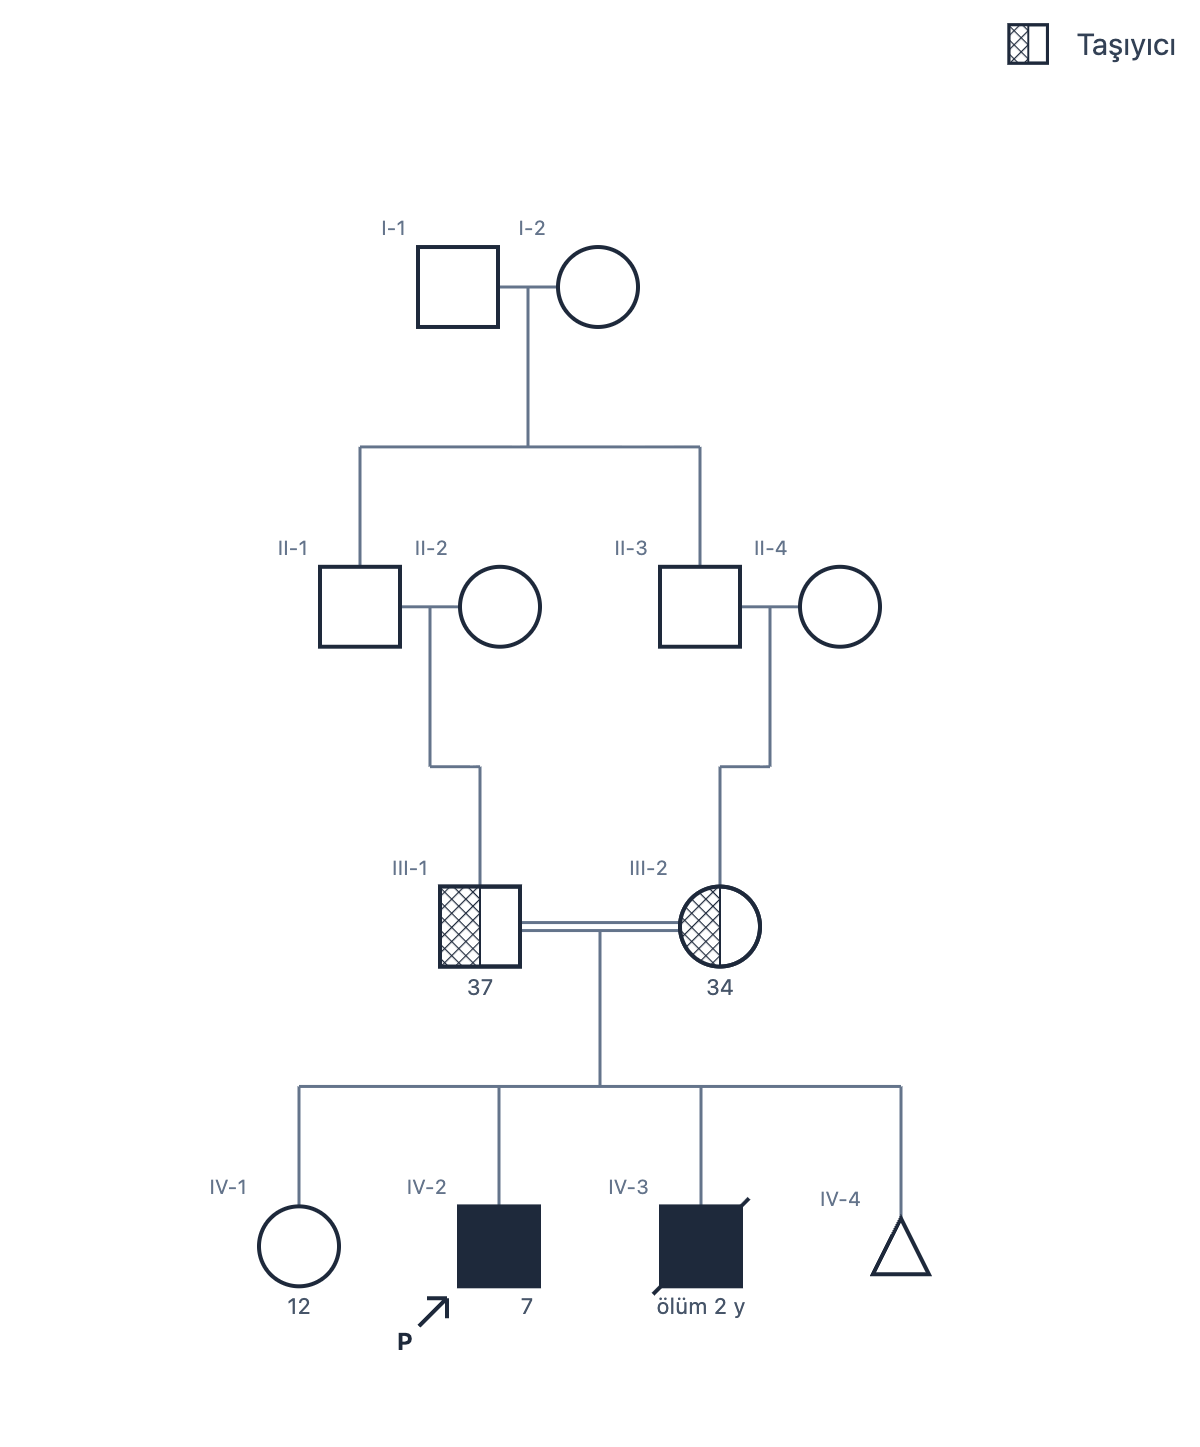
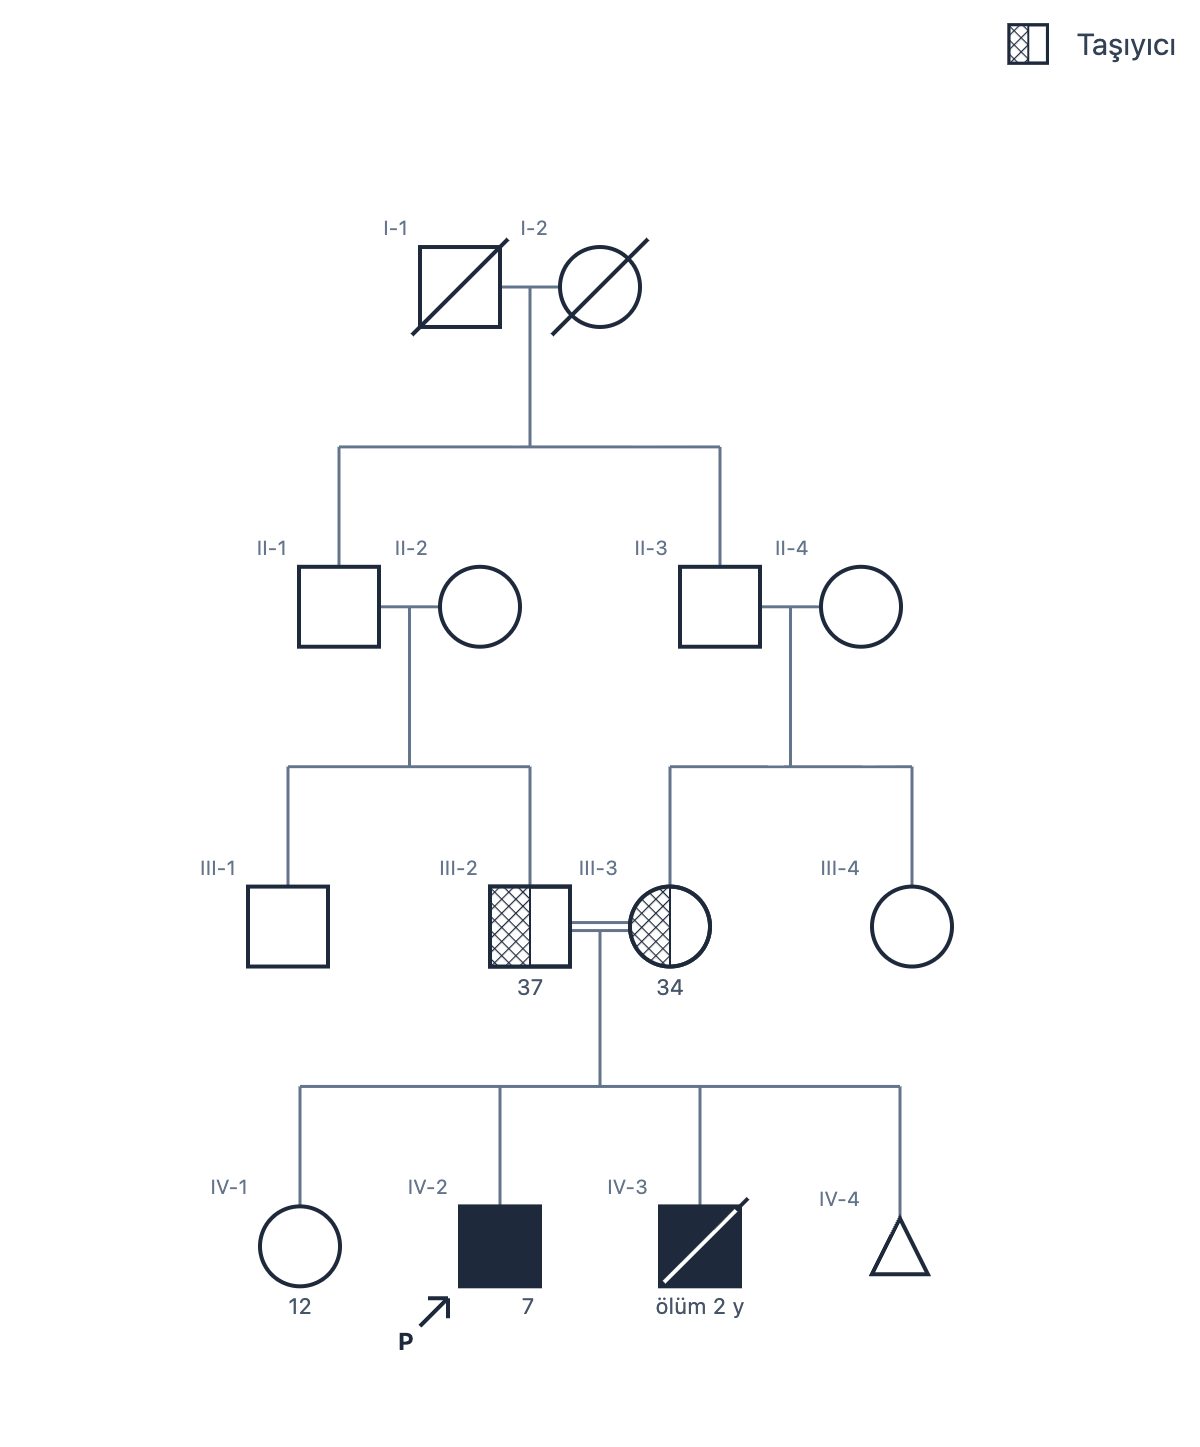
The deceased slash is seen on an affected symbol; it no longer touches the text below
On a wholly filled (affected) symbol the dark slash disappeared into the
fill and only its corners showed. It is now light inside the symbol and
dark outside it: one line, with the same meaning (notation mockup 09 B),
never two lines that could be read as "//". Open and partly filled symbols
are unchanged. Where text stands under the symbol ("ölüm 2 y"), the
slash's lower end stops at the corner instead of touching the text.

The README's sample drawing is redrawn: the parents each have a sibling,
so every line of descent drops straight; the great-grandparents are
deceased; the affected brother's slash shows.

Checked: two new screen tests fail on the old code; 1272 tests, lint,
generations, build; mark audit [] in the browser.

diff --git a/src/components/PedigreeCanvas.jsx b/src/components/PedigreeCanvas.jsx
@@ -35,7 +35,7 @@ import { annotationAge, pregnancyLine, lmpLine } from '../utils/annotations';
 import { BRACKET_OUT } from '../layout/pcl/routing';
 import { isSmallSymbol, pregnancyKind, PREGNANCY_LABEL, TESTED_TEXT, isGroup, groupText, subjectOf } from '../graph/model';
 import { packLines } from '../utils/textWrap';
-import { filled, onsetsOf, unsureOf, bornWeek, hasNoteNumber, geneticRows as geneticRowsOf, lineNoteText, LINE_NOTE_SIZE, TEXT, textScale, ARROW_DROP } from '../utils/symbolText';
+import { filled, onsetsOf, unsureOf, bornWeek, hasNoteNumber, geneticRows as geneticRowsOf, lineNoteText, LINE_NOTE_SIZE, TEXT, textScale, ARROW_DROP, textBox } from '../utils/symbolText';
 import { keyGrid } from '../utils/keyGrid';
 import { nameCase } from '../utils/nameCase';
 import { chainOf, offsetPolyline } from '../utils/doubleLine';
@@ -48,6 +48,8 @@ const NODE_FILL = '#ffffff';
 const NODE_SIZE = 40;
 const HALF = NODE_SIZE / 2;
 const LOSS_SIZE = 14; // smaller triangle for pregnancy loss
+const DECEASED_REACH = 4; // how far each end of the deceased slash reaches past the symbol's corner
+const DECEASED_REACH_OVER_TEXT = 0; // its lower end, where text stands under the symbol: at the corner, as at an arrow
 const GENETIC_ROW = 11; // one line of a genetic test result under a symbol
 
 const JUMP_R = 5;
@@ -912,12 +914,23 @@ const PedigreeCanvas = forwardRef(function PedigreeCanvas(
       if (d.deceased && !isSmall && !d.ongoingPregnancy) {
         // Diagonal slash for deceased: from the lower left to the upper right, as NSGC and the
         // textbooks draw it (clinician 2026-11-11: no difference from the international standard);
-        // it stops at the corner where a proband's or consultand's arrow points
-        const low = (d.proband || d.consultand) && !arrowRight.has(d.id) ? 0 : 4;
+        // it stops at the corner where a proband's or consultand's arrow points, and short of the text
+        // below the symbol (clinician 2026-11-14: it touched "ölüm 2 y")
+        const low = (d.proband || d.consultand) && !arrowRight.has(d.id) ? 0
+          : textBox(d).depth > sz ? DECEASED_REACH_OVER_TEXT : DECEASED_REACH;
         el.append('line').attr('class', 'deceased-slash')
           .attr('x1', -(sz + low)).attr('y1', sz + low)
-          .attr('x2', sz + 4).attr('y2', -(sz + 4))
+          .attr('x2', sz + DECEASED_REACH).attr('y2', -(sz + DECEASED_REACH))
           .attr('stroke', NODE_STROKE).attr('stroke-width', 2);
+        // On a wholly filled (affected) symbol the slash is light inside the symbol, dark outside: one
+        // line that is seen (clinician 2026-11-14; notation mockup 09 B — the meaning is the same).
+        // A partly filled symbol keeps the dark slash, which shows on its open part.
+        if (filling.mode === 'full') {
+          const inner = sz * (d.sex === 'female' ? Math.SQRT1_2 : d.sex === 'male' ? 1 : 0.5) - 2; // clear of the outline
+          el.append('line').attr('class', 'deceased-slash-inner')
+            .attr('x1', -inner).attr('y1', inner).attr('x2', inner).attr('y2', -inner)
+            .attr('stroke', '#ffffff').attr('stroke-width', 2);
+        }
       }
 
       // Proband / consultand arrow (lower-left); "P" only for the proband

diff --git a/src/__tests__/screen.test.js b/src/__tests__/screen.test.js
@@ -1559,6 +1559,39 @@ describe('notation per the literature (NSGC 2022 and its 2025 correction)', () =
     expect(Number(p.getAttribute('y1'))).toBeLessThan(Number(f.getAttribute('y1')));
   });
 
+  it('the deceased slash is seen on a filled (affected) symbol: light inside the symbol, dark outside — one line (clinician 2026-11-14)', async () => {
+    await run(() => {
+      S().updateIndividual('father', { deceased: true, affected: true });
+      S().updateIndividual('mother', { deceased: true, affected: true });
+      S().updateIndividual('pat_gf', { deceased: true });
+    });
+    for (const id of ['father', 'mother']) {
+      const node = drawn(id);
+      const inner = node.querySelector('.deceased-slash-inner'), slash = node.querySelector('.deceased-slash');
+      expect(inner, id).not.toBeNull();
+      expect(inner.getAttribute('stroke')).toBe('#ffffff');
+      // on top of the dark slash, as wide: a single line, never a "//"
+      expect(slash.compareDocumentPosition(inner) & Node.DOCUMENT_POSITION_FOLLOWING).toBeTruthy();
+      expect(inner.getAttribute('stroke-width')).toBe(slash.getAttribute('stroke-width'));
+      expect(Number(inner.getAttribute('x2')) > 0 && Number(inner.getAttribute('y2')) < 0).toBe(true);
+      // inside the symbol: within the square, within the circle — the ends outside stay dark
+      const x = Number(inner.getAttribute('x2')), y = Number(inner.getAttribute('y2'));
+      const half = id === 'father' ? Number(node.querySelector('rect').getAttribute('width')) / 2 : Number(node.querySelector('circle').getAttribute('r'));
+      expect(id === 'father' ? Math.max(Math.abs(x), Math.abs(y)) : Math.hypot(x, y)).toBeLessThan(half - 1);
+    }
+    // an open symbol keeps the dark slash all the way
+    expect(drawn('pat_gf').querySelector('.deceased-slash-inner')).toBeNull();
+  });
+
+  it('the deceased slash stops short of the text under the symbol ("ölüm 2 y"; clinician 2026-11-14)', async () => {
+    await run(() => {
+      S().updateIndividual('father', { deceased: true, ageAtDeath: '2' });
+      S().updateIndividual('mother', { deceased: true });
+    });
+    const lowEnd = (id) => Number(drawn(id).querySelector('.deceased-slash').getAttribute('y1'));
+    expect(lowEnd('father')).toBeLessThan(lowEnd('mother')); // the mother has no text below: the usual reach
+  });
+
   it('ectopic pregnancy: the triangle with a slash and "ECT" below, like a termination but named', async () => {
     await run(() => { S().addChildTo('proband', 'unknown', { ectopic: true }); S().addChildTo('proband', 'unknown', { termination: true }); });
     const ect = g().individuals.find(i => i.ectopic).id, top = g().individuals.find(i => i.termination).id;

diff --git a/docs/PEDITREE_CLINICAL_NOTATION_SPEC_V1.md b/docs/PEDITREE_CLINICAL_NOTATION_SPEC_V1.md
@@ -88,8 +88,8 @@ Her başlıkta: (1) standart kuralı, (2) mevcut davranış, (3) uygunluk, (4) e
    işinin bekletildiğini söylüyor); çoklu fenotip eksik.
 4. **Eksik/hatalı:** yarım dolgu, bazı kaynaklarda presemptomatik taşıyıcıya ayrılmış bir görünümdür; kaynaklar arasında
    çelişki var (repo notu yarım dolgu, NSGC 2008 bilgisi dikey çizgi) — doğrulanmadan seçilemez. Etkilenmiş ve vefat
-   etmiş bireyde koyu çizgi koyu dolgunun üstünde yalnız köşelerde görünüyor
-   (`reports/notation-audit/CB-05-II-3-affected-deceased.svg`).
+   etmiş bireyde koyu çizgi koyu dolgunun üstünde yalnız köşelerde görünüyordu
+   (`reports/notation-audit/CB-05-II-3-affected-deceased.svg`) — 2026-11-14'te düzeltildi (aşağıda karar kaydı).
 5. **Öneri:** 2022 yayını doğrulanınca taşıyıcı / presemptomatik / çoklu fenotip gösterimini birlikte belirleyin
    (taslak: `docs/notation/mockups/03-carrier-phenotypes.svg`); vefat çizgisinin dolgu üstünde görünürlüğü için
    `09-deceased-affected.svg`.
@@ -302,6 +302,7 @@ Onay sonrası her kural için:
 | 2026-10-24 | farklı kuşaklar arası eşlik | izin verilecek; herkes kendi kuşak satırında kalır, ilişki çizgisi üstteki kişiden alttakine **basamaklı** iner, çocuklar alttaki kuşağın bir altına çizilir (uygulandı 2026-10-24: bir kuşak farka kadar; dede–torun gibi doğrudan soy bağı engelli) | kullanıcı (klinisyen) |
 | 2026-11-11 | daha geniş kuşak farkıyla eşlik; daha az basamak | kuşak farkı sınırı kalktı (ör. büyük amca ile yeğenin kızı); öz kardeşler ve doğrudan soy bağı engelli kalır. Çizgi üstteki eşin yanından çıkar, aradaki her satırda boş tutulan yerden düz iner (basamak yok, mümkünse iki kırılma) | kullanıcı (klinisyen) |
 | 2026-11-11 | vefat çizgisinin yönü | uluslararası gösterimle aynı: sol alttan sağ üste ("/"), TOP / ECT çizgisiyle aynı yön; proband ya da danışan okunun bulunduğu köşede taşmaz; sembol rehberi çizimle aynı (uygulandı) | kullanıcı (klinisyen): "hangi taraf diyorsa ona göre" |
+| 2026-11-14 | vefat çizgisi dolu sembolde | tamamen dolu (etkilenmiş) sembolde çizgi sembolün içinde beyaz, dışında koyu: tek çizgi (taslak 09 B; anlam aynı, "//" gibi görünmez); kısmen dolu ya da boş sembolde koyu çizgi değişmez; altında yazı olan kişide alt uç köşede biter ("ölüm 2 y" yazısına değiyordu) (uygulandı) | kullanıcı (klinisyen): "vefat da göster … kullanıcı ne biçim gözüküyor dememeli" |
 | 2026-10-24 | K12 — ikizler / çoğul gebelik | kardeşlik çizgisinde tek noktadan ayrılan çizgiler; tek yumurta = çizgiler arasında çubuk, zigosite bilinmiyor = "?", dizigotik / trizigotik = işaret yok; üçüz ve daha fazlası (uygulandı, `graph/multiples.js`; referans: klinik pedigri sembol sayfası, Ayaz & Çitli) | kullanıcı (klinisyen) isteği |
 | | referans sayfasında farklı görülenler | ölü doğum: normal boy sembol + eğik çizgi + "SB hf" (bizde küçük sembol + X); devam eden gebelik: sembol içinde P (bizde yok); TOP / ektopik (bizde yok); taşıyıcı: ortada nokta (bizde yarım dolgu, K5 kararı); presemptomatik taşıyıcı: dikey çizgi; değerlendirme: yıldız + E notu | karar gerekli |
 | 2026-10-24 | bulgu imzası ve açıklama yeri | her bulgu bir **imza** taşır: çeyrek (sol üst / sağ üst / sağ alt / sol alt) + dolgu (siyah / tarama / noktalı / gri); yeni bulguya sıradaki boş imza önerilir, klinisyen değiştirebilir; aynı bulgu herkeste aynı imza; tek bulgu da kendi çeyreğini boyar (bulgu belirtilmeden "etkilenmiş" = tam dolgu); açıklama **sağ üstte** (uygulandı). Üst/alt yarı seçeneği çeyreklerle çakıştığı için kullanılmadı | kullanıcı (klinisyen) |

diff --git a/README.md b/README.md
@@ -20,8 +20,8 @@
 </p>
 
 <p align="center">
-  <img src="docs/images/example-pedigree.png" alt="A sample pedigree drawn in PediTree: parents who are first cousins (double line), both carriers; an affected proband, an affected brother who died at age 2, a sister and a miscarriage" width="460">
-  <br><sub>A sample family (no patient data): first-cousin parents, both carriers, with two affected sons.</sub>
+  <img src="docs/images/example-pedigree.png" alt="A sample pedigree drawn in PediTree: deceased great-grandparents; parents who are first cousins (double line), both carriers, each with a sibling; an affected proband, an affected brother who died at age 2, a sister and a miscarriage" width="460">
+  <br><sub>A sample family (no patient data): first-cousin parents, both carriers, with two affected sons, one deceased.</sub>
 </p>
 
 ---
